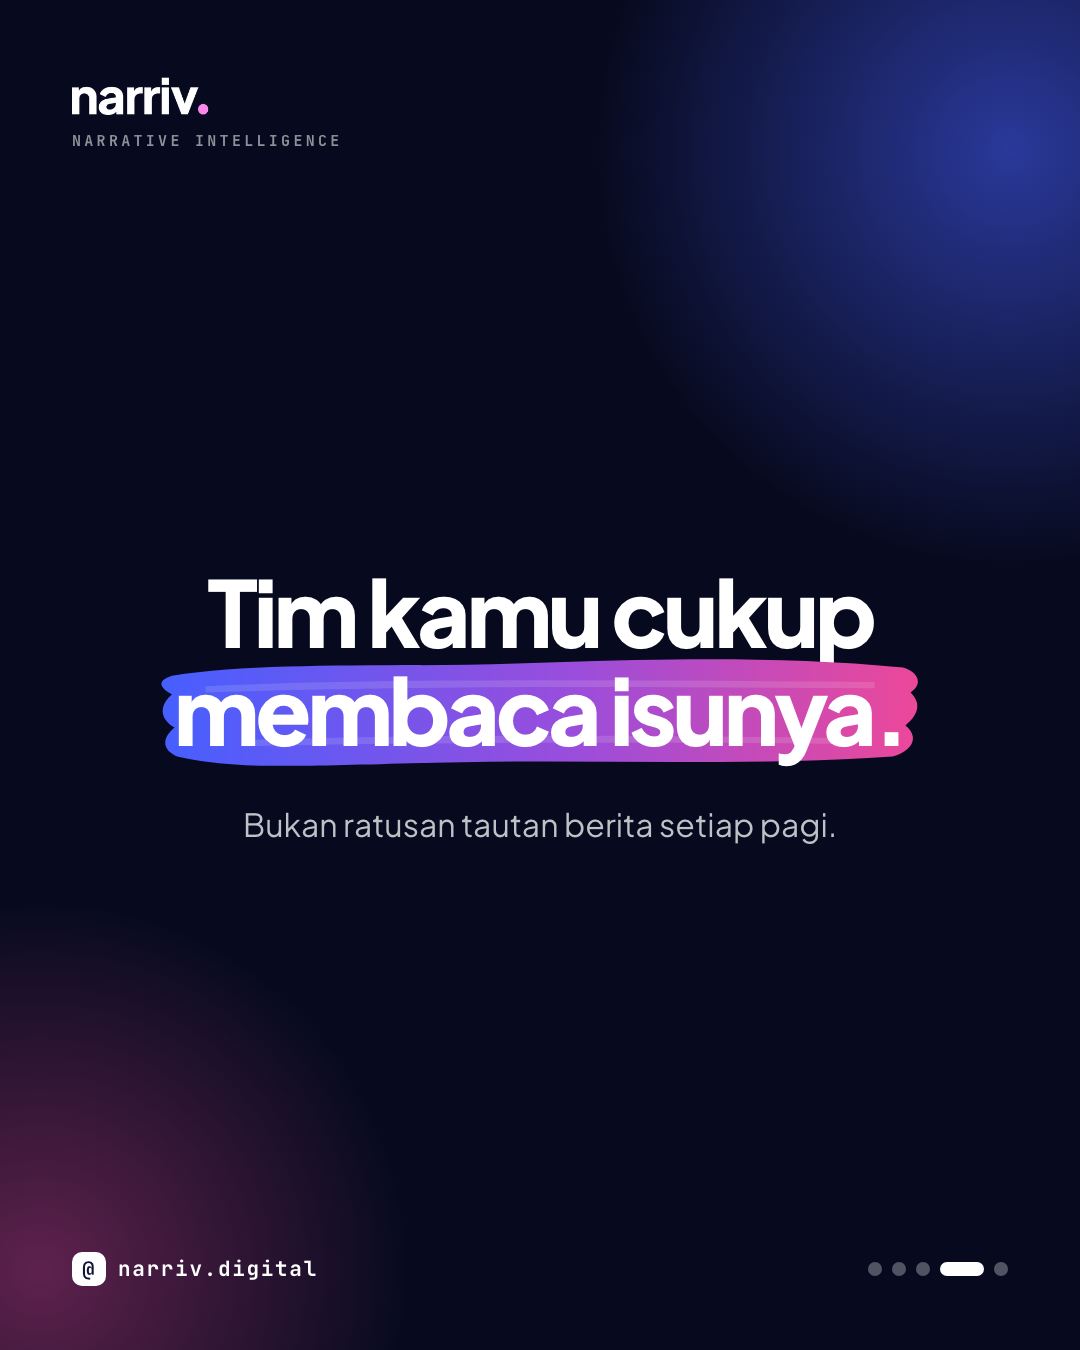
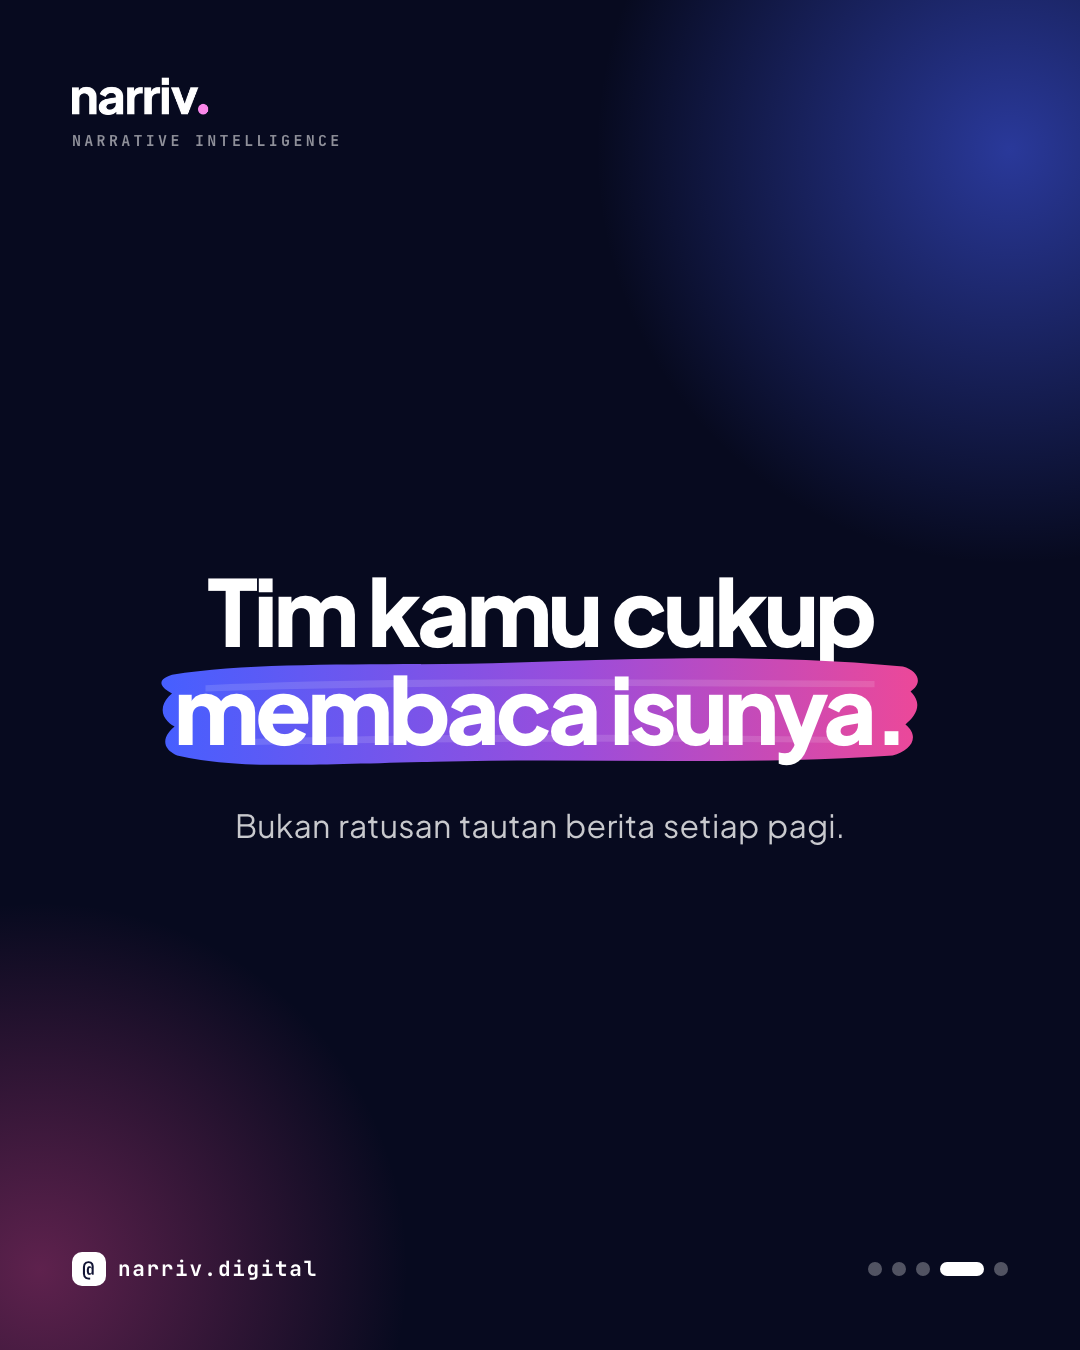
Education subtitles: one sentence per line, more space under titles, airier spacing

diff --git a/frontend/app/pitch/social/edu/page.tsx b/frontend/app/pitch/social/edu/page.tsx
@@ -19,7 +19,17 @@ function Title({ kicker: _kicker, children, sub, dark, size = 80 }: { kicker: st
   return (
     <div style={{ textAlign: "center" }}>
       <h2 style={{ margin: 0, fontSize: size, lineHeight: 1.04, fontWeight: 800, letterSpacing: "-0.045em" }}>{children}</h2>
-      {sub ? <p style={{ margin: "26px 0 0", fontSize: 32, lineHeight: 1.42, color: dark ? "rgba(255,255,255,.75)" : MUTED }}>{sub}</p> : null}
+      {sub ? <Sub text={sub} dark={dark} /> : null}
+    </div>
+  );
+}
+
+/** Supporting text under a title: each sentence on its own line, airy spacing, kept narrow so lines stay short. */
+function Sub({ text, dark }: { text: string; dark?: boolean }) {
+  const sentences = text.split(/(?<=[.?!])\s+/).filter(Boolean);
+  return (
+    <div style={{ margin: "44px auto 0", maxWidth: 860, display: "grid", gap: 14, fontSize: 32, lineHeight: 1.5, letterSpacing: "0.005em", wordSpacing: "0.06em", color: dark ? "rgba(255,255,255,.78)" : MUTED }}>
+      {sentences.map((x) => <p key={x} style={{ margin: 0 }}>{x}</p>)}
     </div>
   );
 }
@@ -70,7 +80,7 @@ const big = (kicker: string, text: ReactNode, note?: string, dark = false): Slid
   body: (
     <div style={{ textAlign: "center" }}>
       <p style={{ margin: 0, fontSize: 92, lineHeight: 1.06, fontWeight: 800, letterSpacing: "-0.045em" }}>{text}</p>
-      {note ? <p style={{ margin: "44px 0 0", fontSize: 32, lineHeight: 1.45, color: dark ? "rgba(255,255,255,.75)" : MUTED }}>{note}</p> : null}
+      {note ? <Sub text={note} dark={dark} /> : null}
     </div>
   ),
 });
